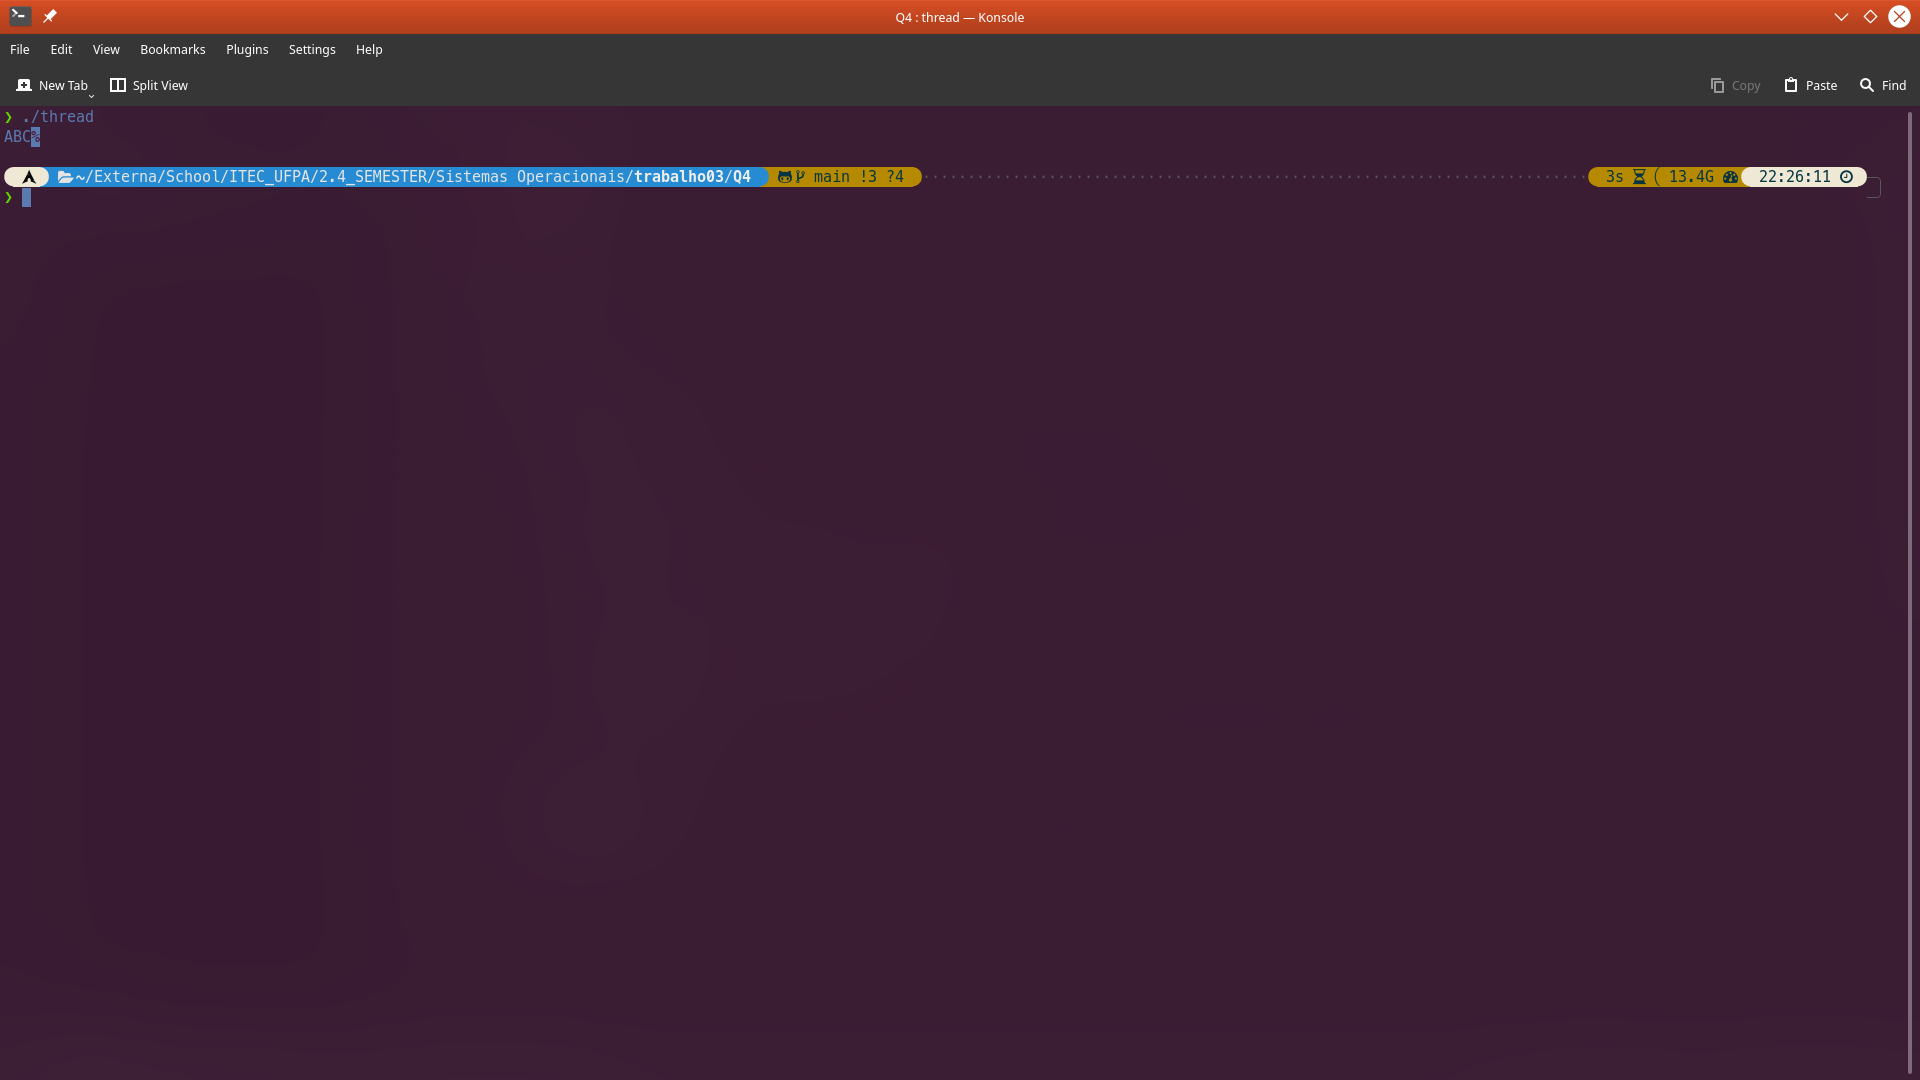
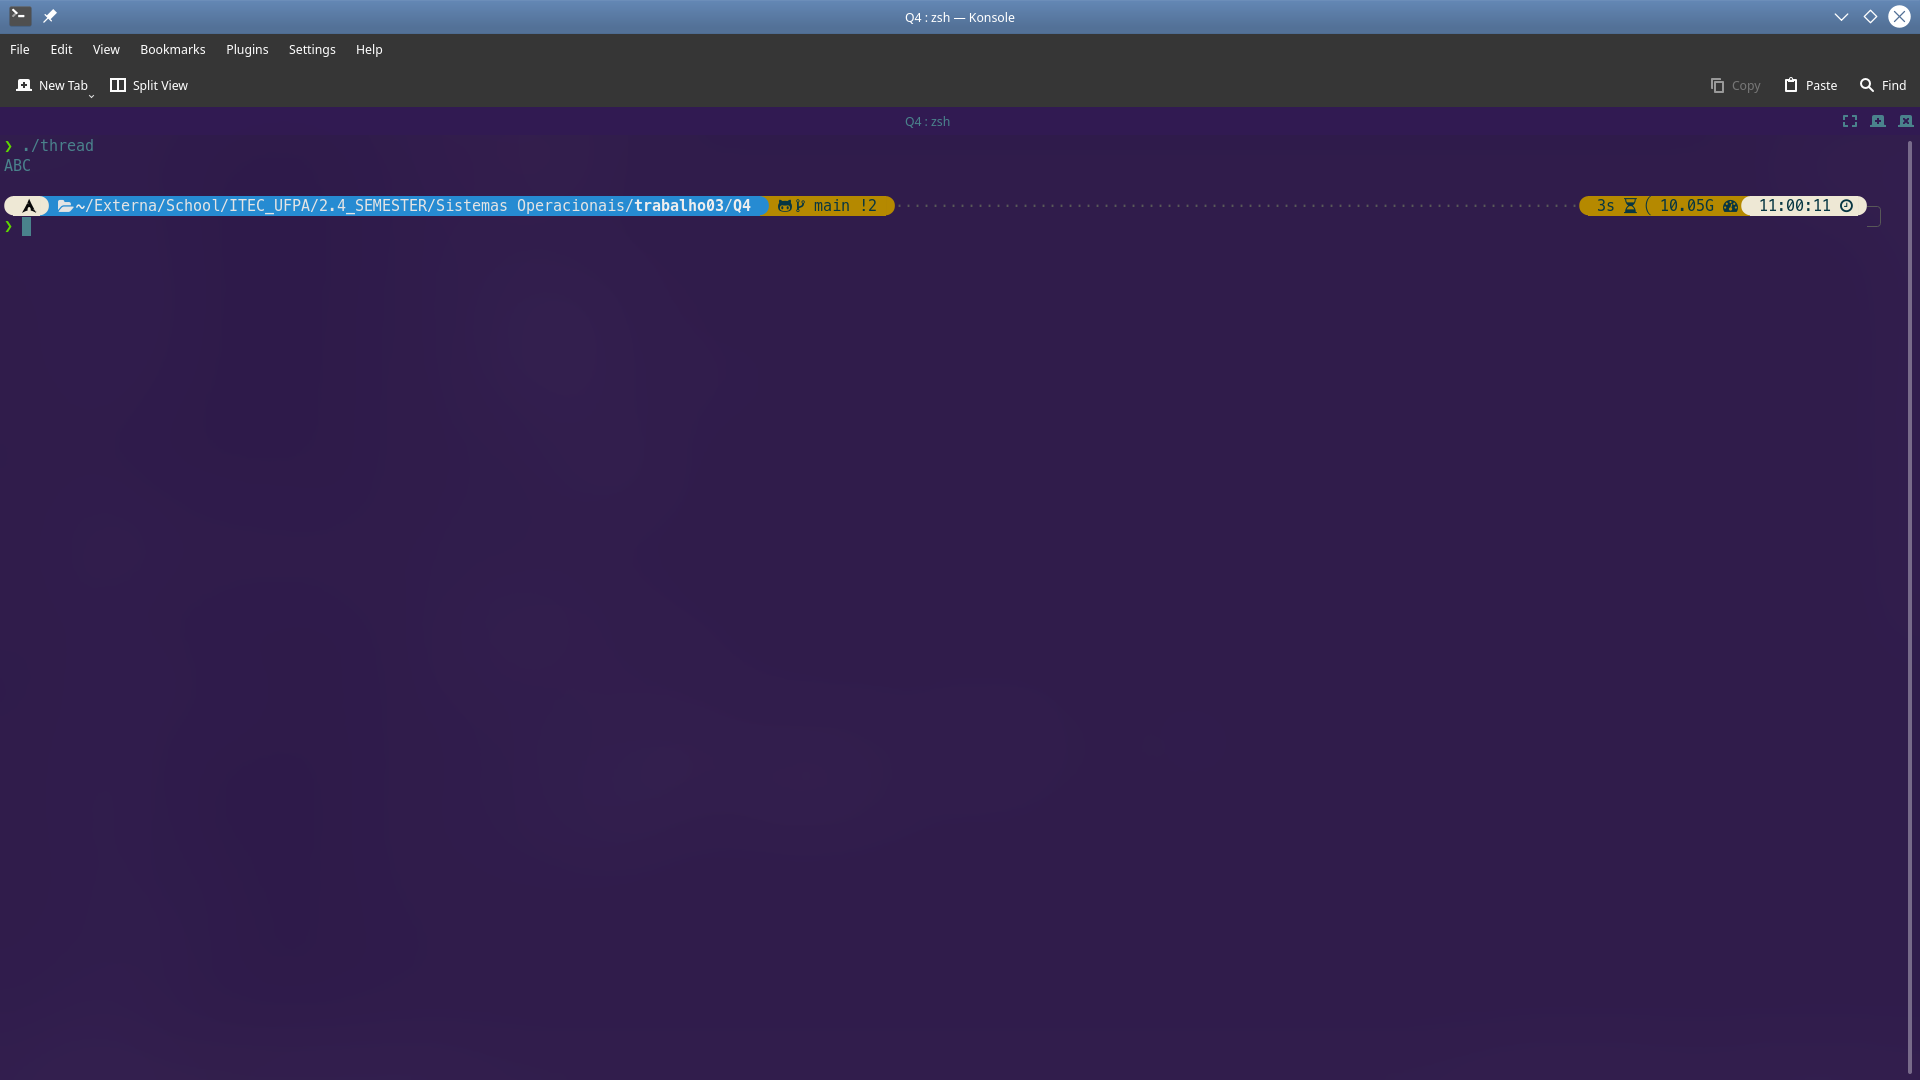
modified:   Q4/thread

diff --git a/Q4/thread.c b/Q4/thread.c
@@ -7,10 +7,15 @@ char *abc[3];
 
 // Função para printar na tela ABC
 void *task_thread(void *tarefa){
+    int i = 0;
     sleep(1);
     long Id_do_tarefa;
     Id_do_tarefa = (long)tarefa;
     printf("%s", abc[Id_do_tarefa]);
+    i+=1;
+    if(i == 2){
+        printf("\n");
+    }
     // Fazer a thread repetir a mesma ordem
     pthread_exit(NULL);
 }
@@ -21,7 +26,7 @@ int main()
     long tarefa[3];
     abc[0] = "A"; // Mensagem 1
     abc[1] = "B"; // Mensagem 2
-    abc[2] = "C"; // Mensagem 1
+    abc[2] = "C\n"; // Mensagem 3
 
     for(int i = 0; i < 3; i++){
         tarefa[i] = i;
